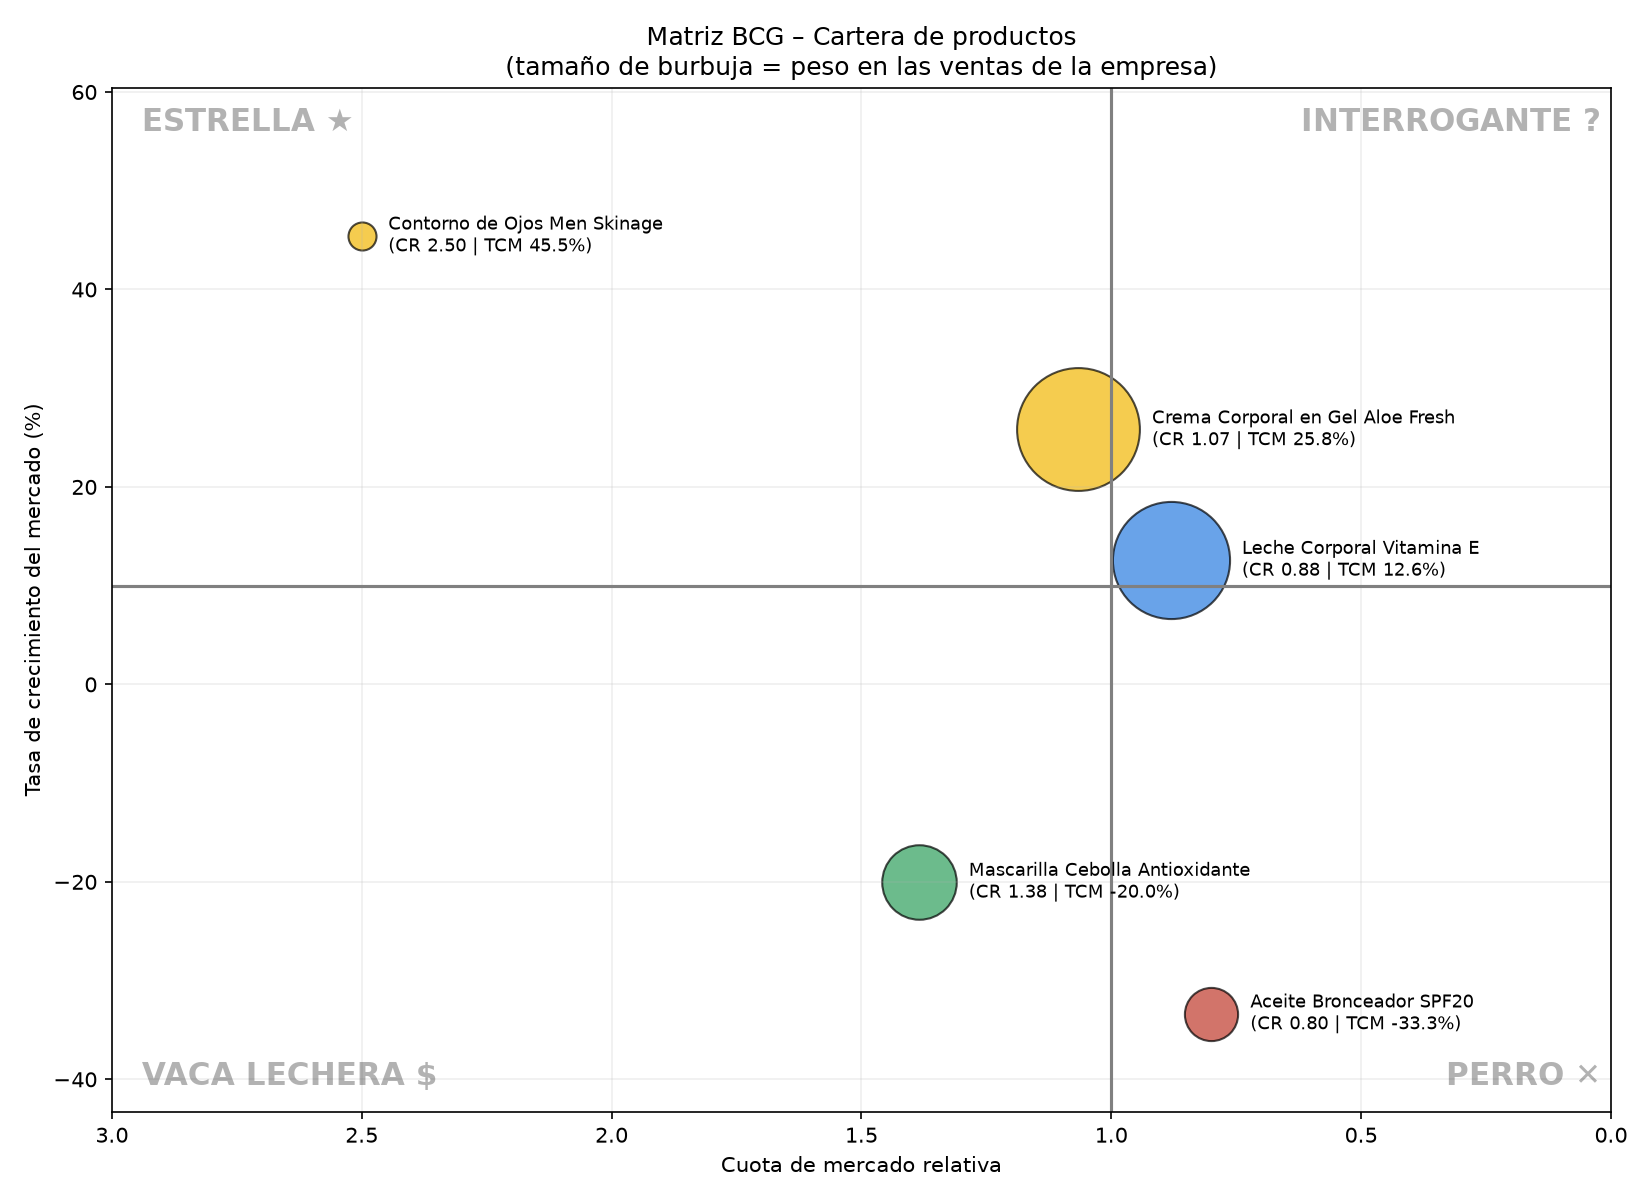
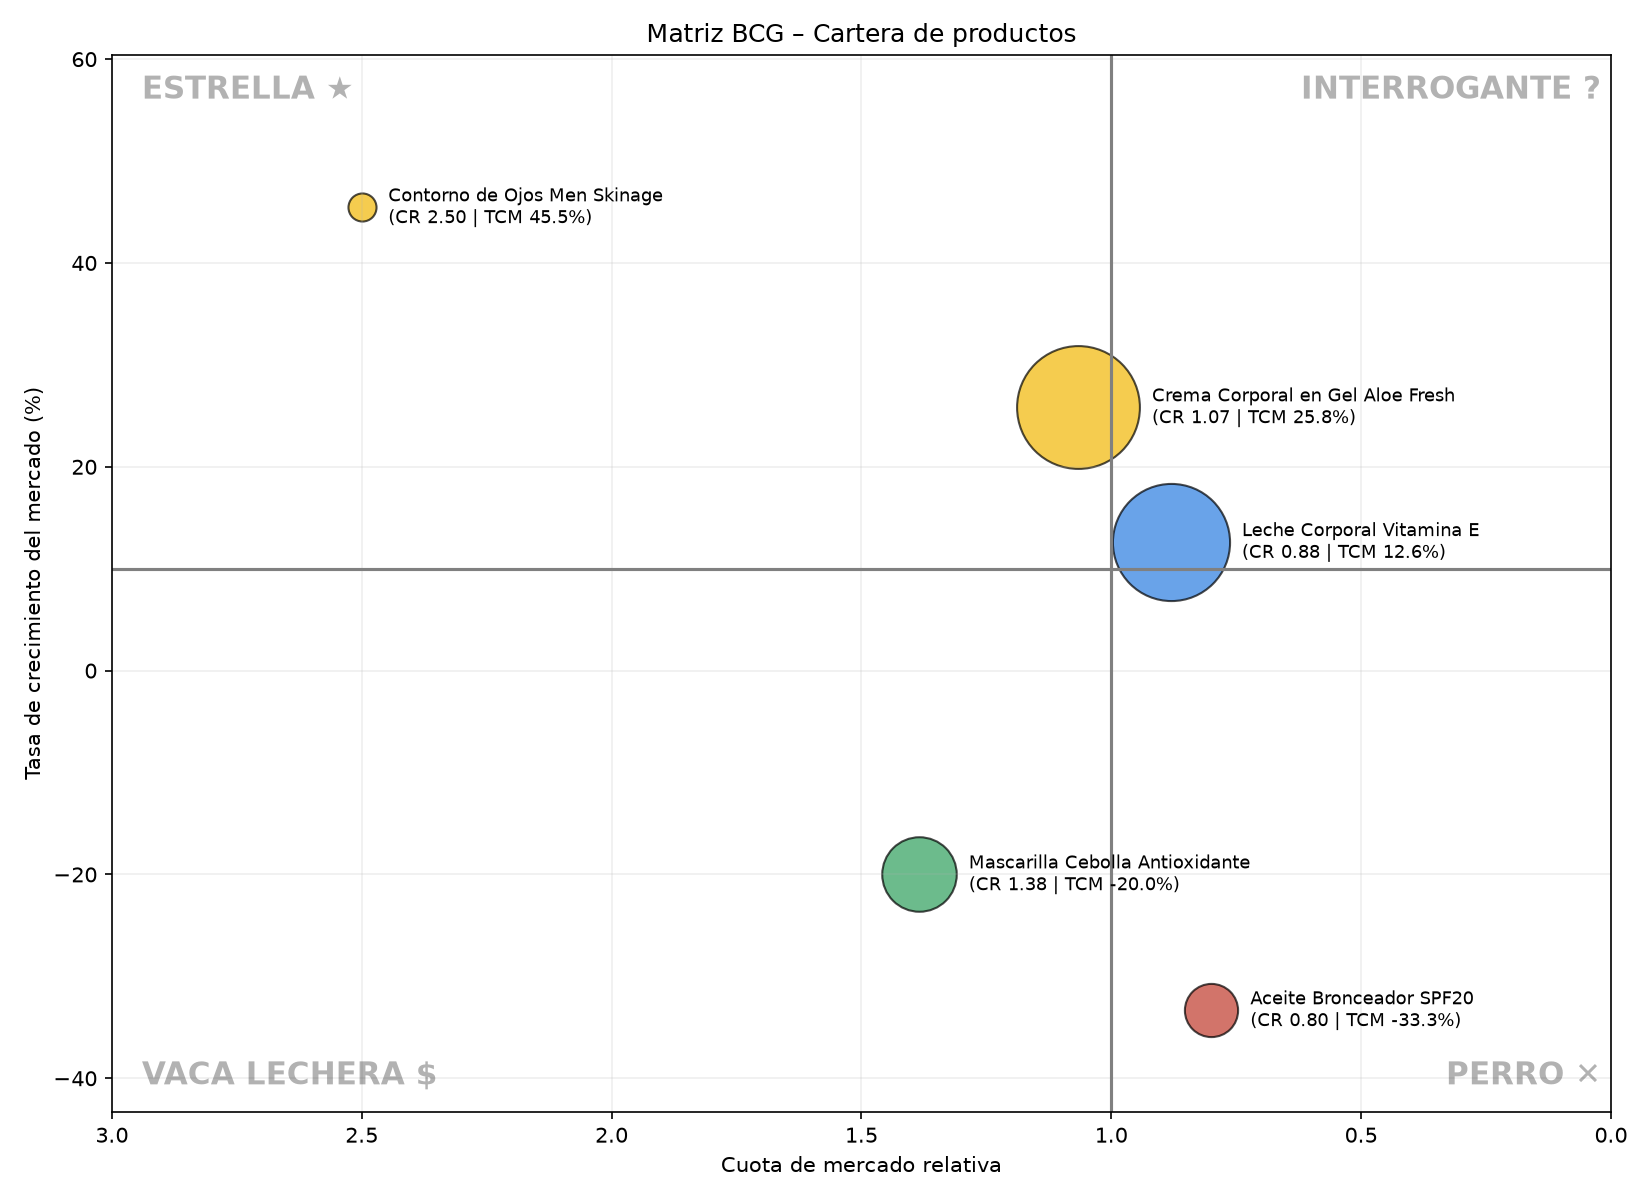
Quitar subtítulo del tamaño de burbuja en el gráfico

diff --git a/main.py b/main.py
@@ -76,7 +76,7 @@ def dibujar(df):
     ax.set_ylim(y_min, y_max)
     ax.set_xlabel("Cuota de mercado relativa")
     ax.set_ylabel("Tasa de crecimiento del mercado (%)")
-    ax.set_title("Matriz BCG – Cartera de productos\n(tamaño de burbuja = peso en las ventas de la empresa)")
+    ax.set_title("Matriz BCG – Cartera de productos")
     ax.grid(alpha=0.2)
 
     fig.tight_layout()
